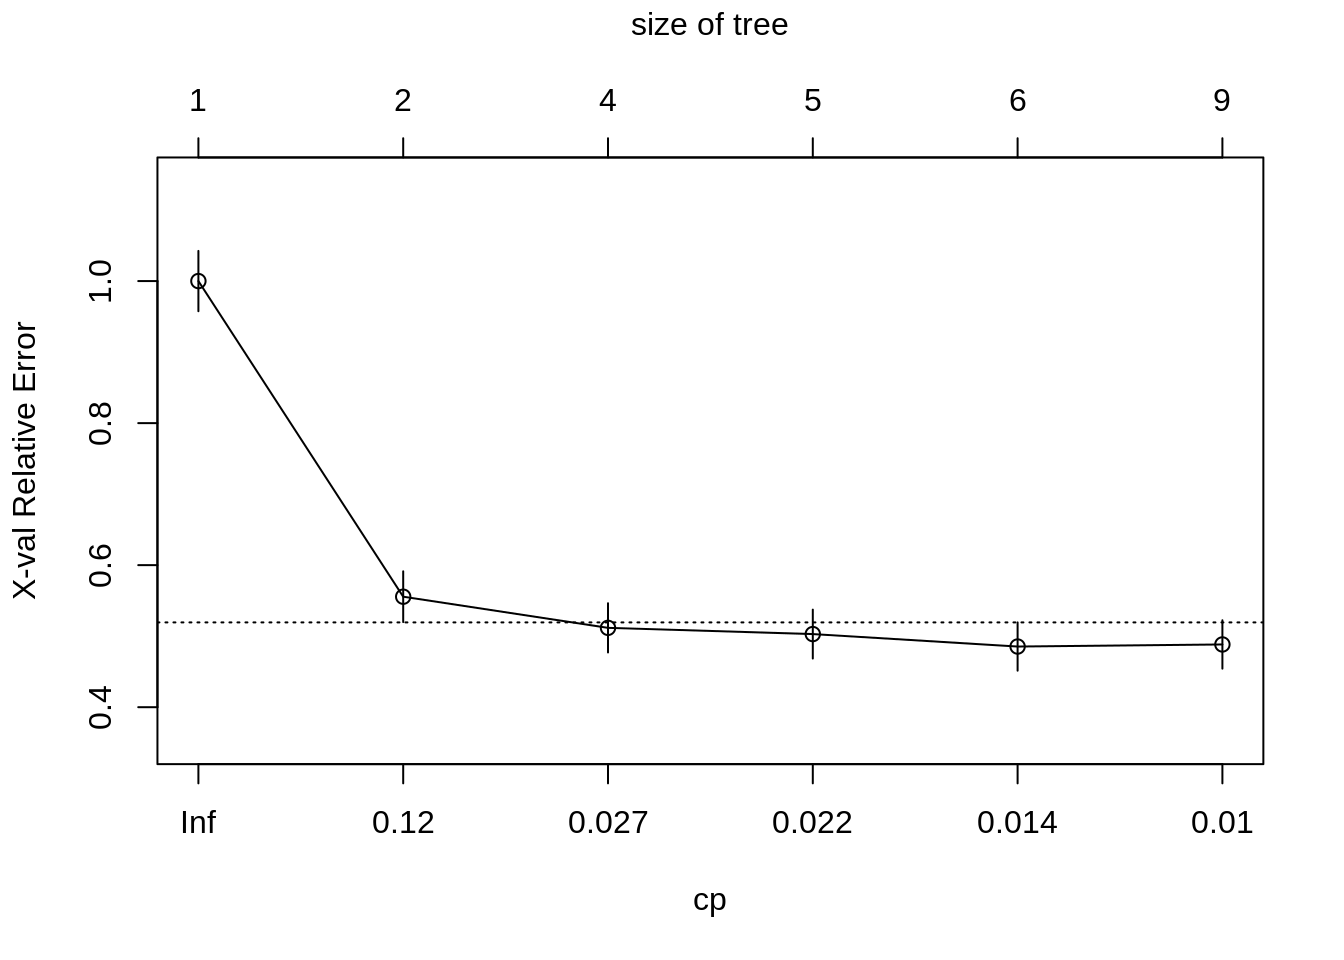
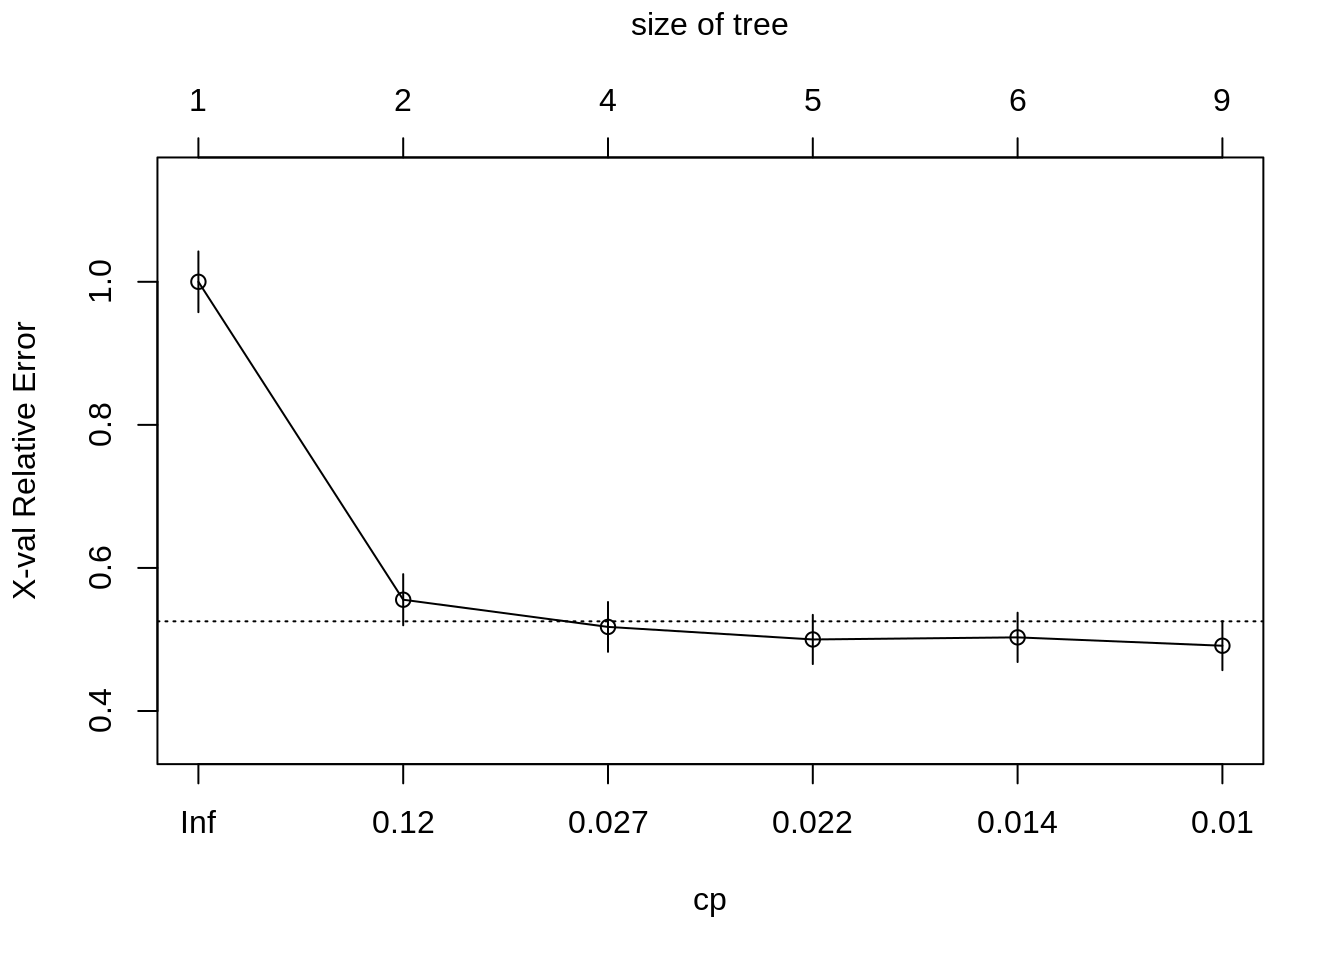
Deploy lebebr01/stat_thinking to github.com/lebebr01/stat_thinking.git:master

diff --git a/docs/classification.html b/docs/classification.html
@@ -324,10 +324,10 @@ titanic &lt;-<span class="st"> </span><span class="kw">bind_rows</span>(titanic_
 ##         CP nsplit rel error  xerror     xstd
 ## 1 0.444444      0   1.00000 1.00000 0.042446
 ## 2 0.030702      1   0.55556 0.55556 0.035750
-## 3 0.023392      3   0.49415 0.51170 0.034675
-## 4 0.020468      4   0.47076 0.50292 0.034448
-## 5 0.010234      5   0.45029 0.48538 0.033983
-## 6 0.010000      8   0.41813 0.48830 0.034061</code></pre>
+## 3 0.023392      3   0.49415 0.51754 0.034823
+## 4 0.020468      4   0.47076 0.50000 0.034372
+## 5 0.010234      5   0.45029 0.50292 0.034448
+## 6 0.010000      8   0.41813 0.49123 0.034140</code></pre>
 <div class="sourceCode"><pre class="sourceCode r"><code class="sourceCode r"><span class="kw">plotcp</span>(class_tree)</code></pre></div>
 <p><img src="05-classification_files/figure-html/unnamed-chunk-6-1.png" width="672" /></p>
 <div class="sourceCode"><pre class="sourceCode r"><code class="sourceCode r">prune_class_tree &lt;-<span class="st"> </span><span class="kw">prune</span>(class_tree, <span class="dt">cp =</span> .<span class="dv">02</span>)

diff --git a/docs/05-classification.md b/docs/05-classification.md
@@ -249,10 +249,10 @@ printcp(class_tree)
 ##         CP nsplit rel error  xerror     xstd
 ## 1 0.444444      0   1.00000 1.00000 0.042446
 ## 2 0.030702      1   0.55556 0.55556 0.035750
-## 3 0.023392      3   0.49415 0.51170 0.034675
-## 4 0.020468      4   0.47076 0.50292 0.034448
-## 5 0.010234      5   0.45029 0.48538 0.033983
-## 6 0.010000      8   0.41813 0.48830 0.034061
+## 3 0.023392      3   0.49415 0.51754 0.034823
+## 4 0.020468      4   0.47076 0.50000 0.034372
+## 5 0.010234      5   0.45029 0.50292 0.034448
+## 6 0.010000      8   0.41813 0.49123 0.034140
 ```
 
 ```r
